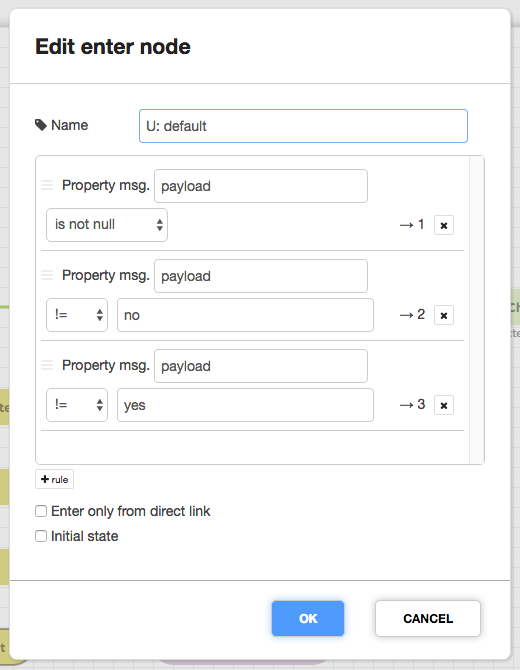
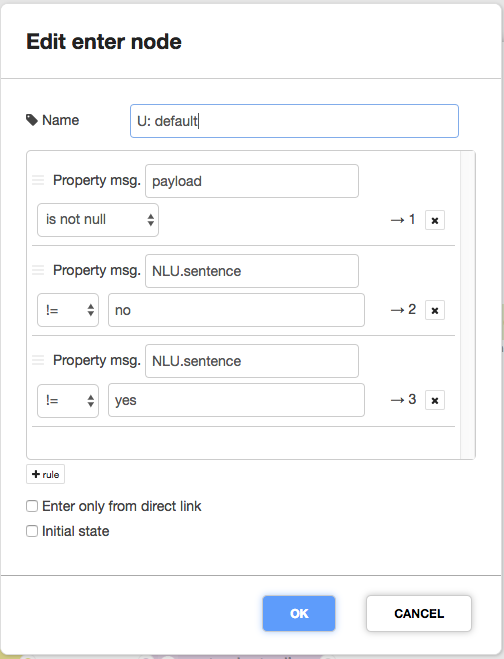
fix lunch bot bug

diff --git a/chatflow/build_a_bot.html b/chatflow/build_a_bot.html
@@ -493,10 +493,12 @@ the agent will not response. We can easily create an Enter Node to handle all
 other input strings.</p>
 <ol class="arabic simple">
 <li>Add an Enter Node and a State Node to the Canvas. Connect them together.</li>
-<li>Edit the Enter Node, name is “U: default”, and set it’s entrance conditions to:
-* <code class="docutils literal"><span class="pre">Property</span> <span class="pre">msg.payload</span> <span class="pre">is</span> <span class="pre">not</span> <span class="pre">null</span></code>
-* <code class="docutils literal"><span class="pre">Property</span> <span class="pre">msg.payload</span> <span class="pre">!=</span> <span class="pre">yes</span></code>
-* <code class="docutils literal"><span class="pre">Property</span> <span class="pre">msg.payload</span> <span class="pre">!=</span> <span class="pre">no</span></code></li>
+<li>Edit the Enter Node, name is “U: default”, and set it’s entrance conditions to:<ul>
+<li>Property <code class="docutils literal"><span class="pre">msg.payload</span> <span class="pre">is</span> <span class="pre">not</span> <span class="pre">null</span></code></li>
+<li>Property <code class="docutils literal"><span class="pre">msg.NLU.sentence</span> <span class="pre">!=</span> <span class="pre">yes</span></code></li>
+<li>Property <code class="docutils literal"><span class="pre">msg.NLU.sentence</span> <span class="pre">!=</span> <span class="pre">no</span></code></li>
+</ul>
+</li>
 </ol>
 <img alt="_images/u-default.png" class="align-center" src="_images/u-default.png" />
 <ol class="arabic simple" start="3">
@@ -709,7 +711,7 @@ and configure it to your ChatFlow App.</p>
   <div role="contentinfo">
     <p  style="color:#999;">
         &copy; Copyright 2016, KITT.AI.
-      Last updated on Dec 08, 2017.
+      Last updated on Jan 03, 2018.
 
     </p>
   </div> 

diff --git a/chatflow/index.html b/chatflow/index.html
@@ -339,7 +339,7 @@ few more bells and whistles, but otherwise, it is complete!</p>
   <div role="contentinfo">
     <p  style="color:#999;">
         &copy; Copyright 2016, KITT.AI.
-      Last updated on Dec 11, 2017.
+      Last updated on Jan 03, 2018.
 
     </p>
   </div> 

diff --git a/chatflow/genindex.html b/chatflow/genindex.html
@@ -185,7 +185,7 @@
   <div role="contentinfo">
     <p  style="color:#999;">
         &copy; Copyright 2016, KITT.AI.
-      Last updated on Dec 11, 2017.
+      Last updated on Jan 03, 2018.
 
     </p>
   </div> 

diff --git a/chatflow/search.html b/chatflow/search.html
@@ -188,7 +188,7 @@
   <div role="contentinfo">
     <p  style="color:#999;">
         &copy; Copyright 2016, KITT.AI.
-      Last updated on Dec 11, 2017.
+      Last updated on Jan 03, 2018.
 
     </p>
   </div> 
